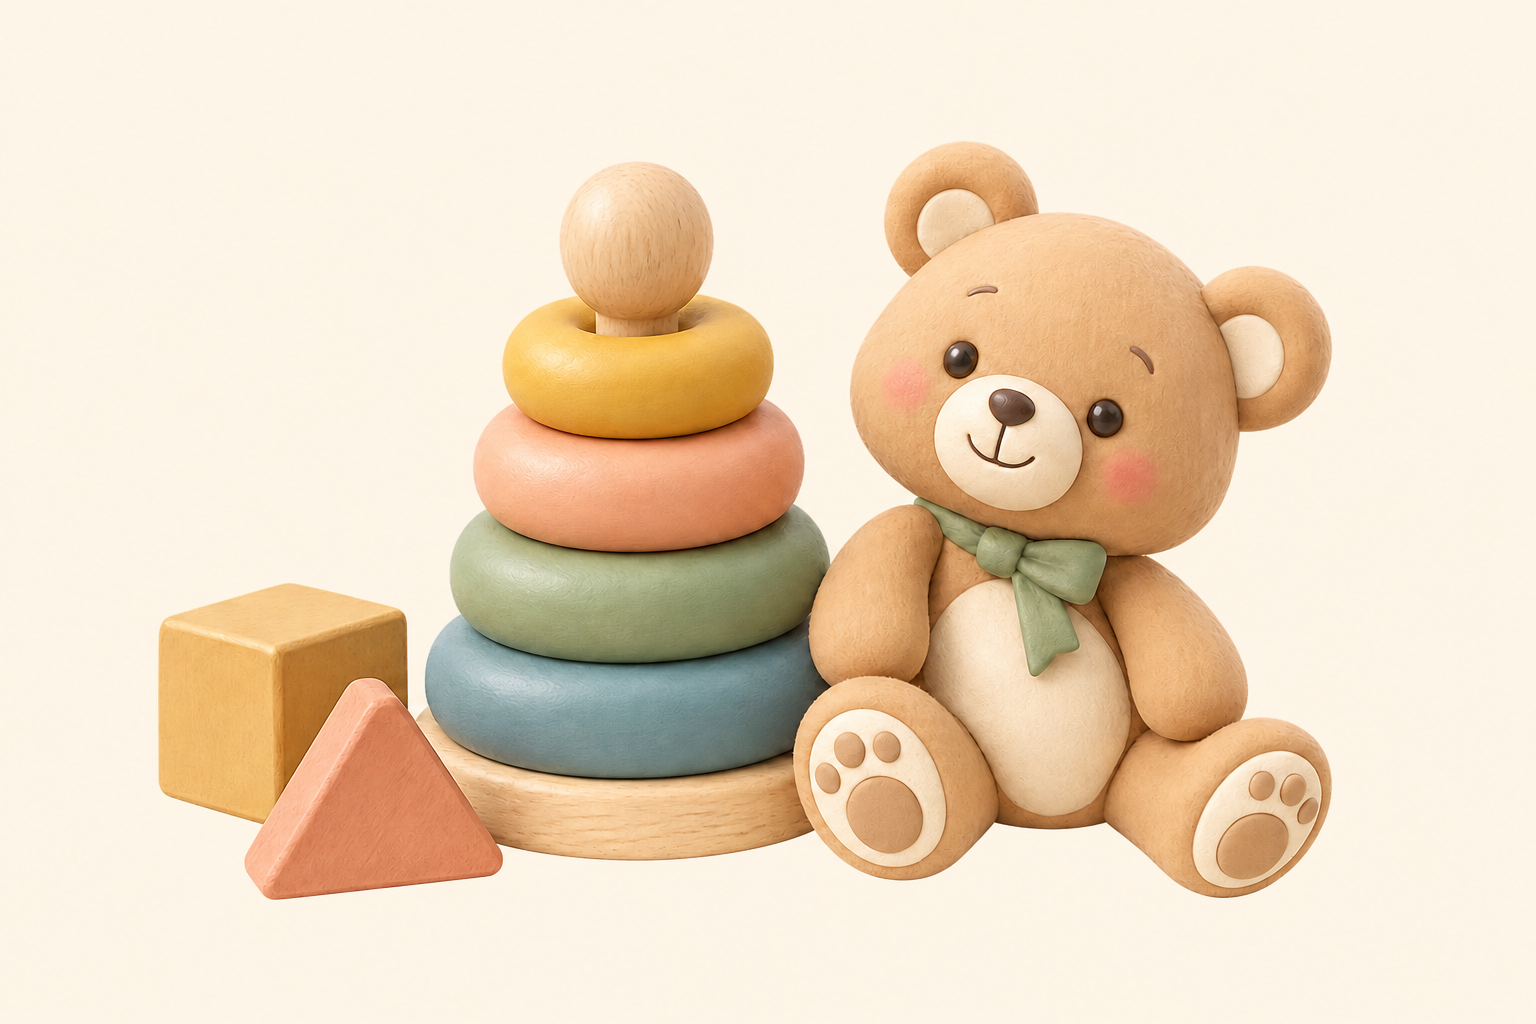
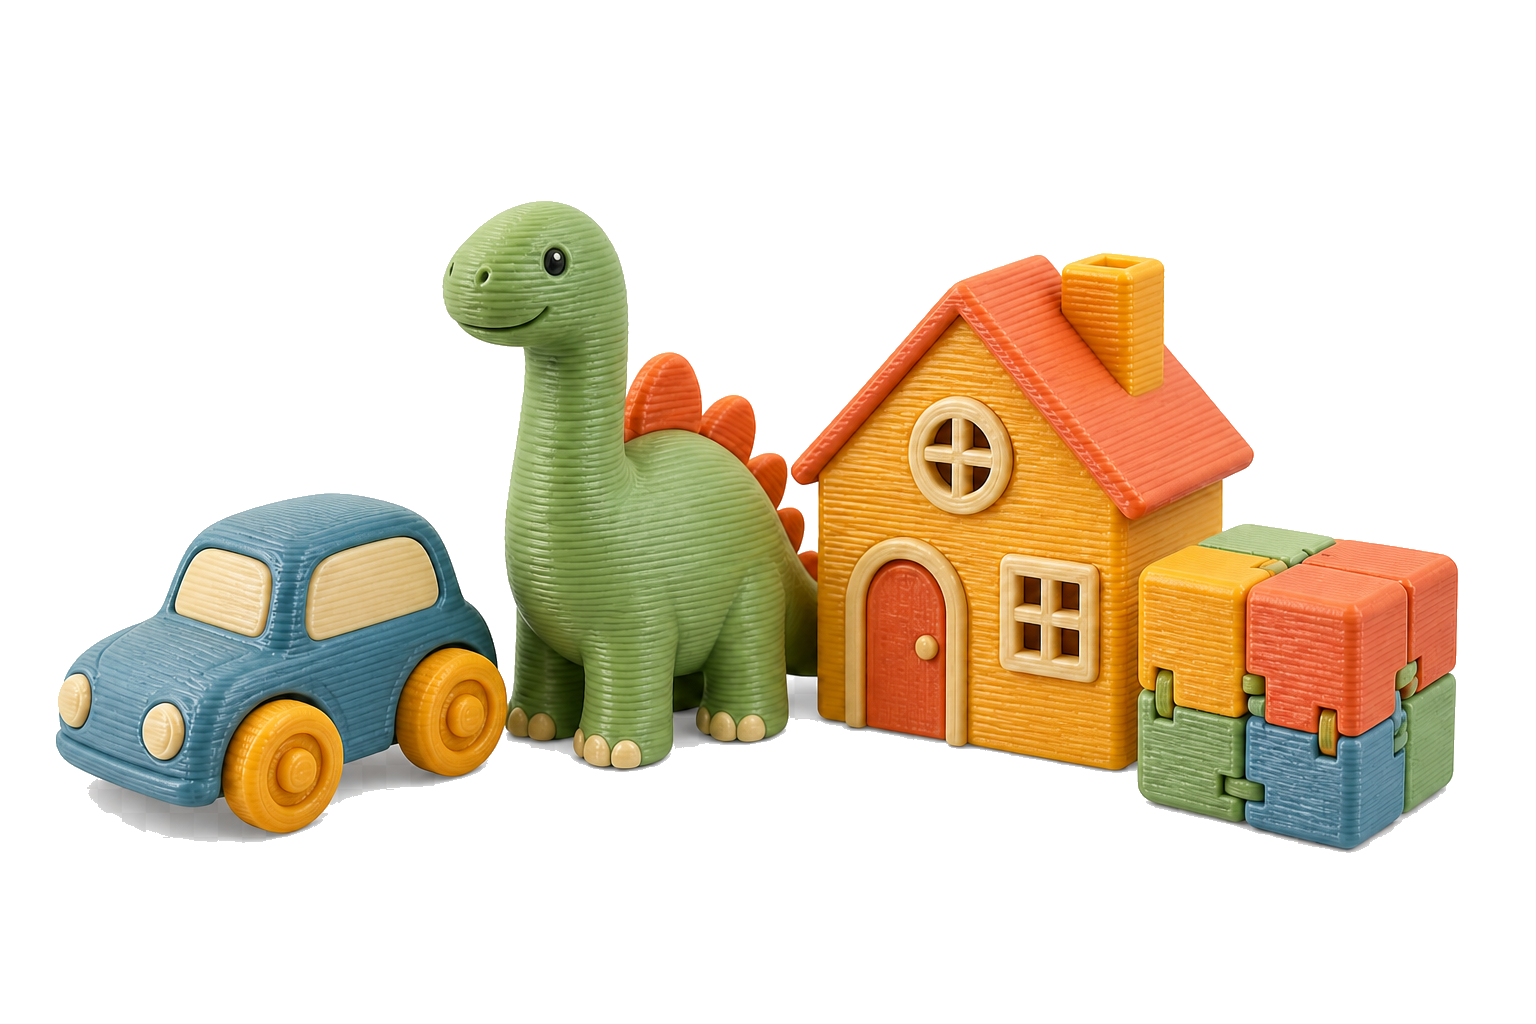
admin improvements

diff --git a/styles/admin.css b/styles/admin.css
@@ -10,7 +10,9 @@
   align-items: center;
   justify-content: space-between;
   gap: 1rem;
-  height: var(--header-height);
+  min-height: 68px;
+  padding-top: 0.5rem;
+  padding-bottom: 0.5rem;
 }
 
 .admin-header__title {
@@ -92,10 +94,16 @@
 }
 
 .admin-table__name span {
-  display: block;
+  display: -webkit-box;
+  overflow: hidden;
+  max-width: 360px;
   color: var(--color-text-muted);
   font-size: 0.8rem;
   margin-top: 0.15rem;
+  overflow-wrap: anywhere;
+  -webkit-box-orient: vertical;
+  -webkit-line-clamp: 2;
+  line-clamp: 2;
 }
 
 .badge-list {

diff --git a/styles/responsive.css b/styles/responsive.css
@@ -83,7 +83,7 @@
   .header-pill { min-width: 88px; padding-right: 0.35rem; padding-left: 0.35rem; font-size: 0.7rem; }
   .header-pill span { width: 54px; height: 54px; }
   .header-pill i { font-size: 1.5rem; }
-  .header-showcase__toys { right: -3rem; width: 285px; opacity: 0.72; }
+  .header-showcase__toys { right: 0.5rem; width: 285px; opacity: 0.72; }
   .header-showcase__tagline { width: 68vw; font-size: 0.78rem; }
   .product-grid { grid-template-columns: repeat(auto-fill, minmax(200px, 1fr)); }
 }

diff --git a/styles/global.css b/styles/global.css
@@ -176,7 +176,7 @@ img {
 .header-showcase__toys {
   position: absolute;
   z-index: -1;
-  right: max(-4.5rem, calc((100% - 1260px) / 2 - 1rem));
+  right: 1rem;
   top: 50%;
   width: min(400px, 31vw);
   mix-blend-mode: multiply;
